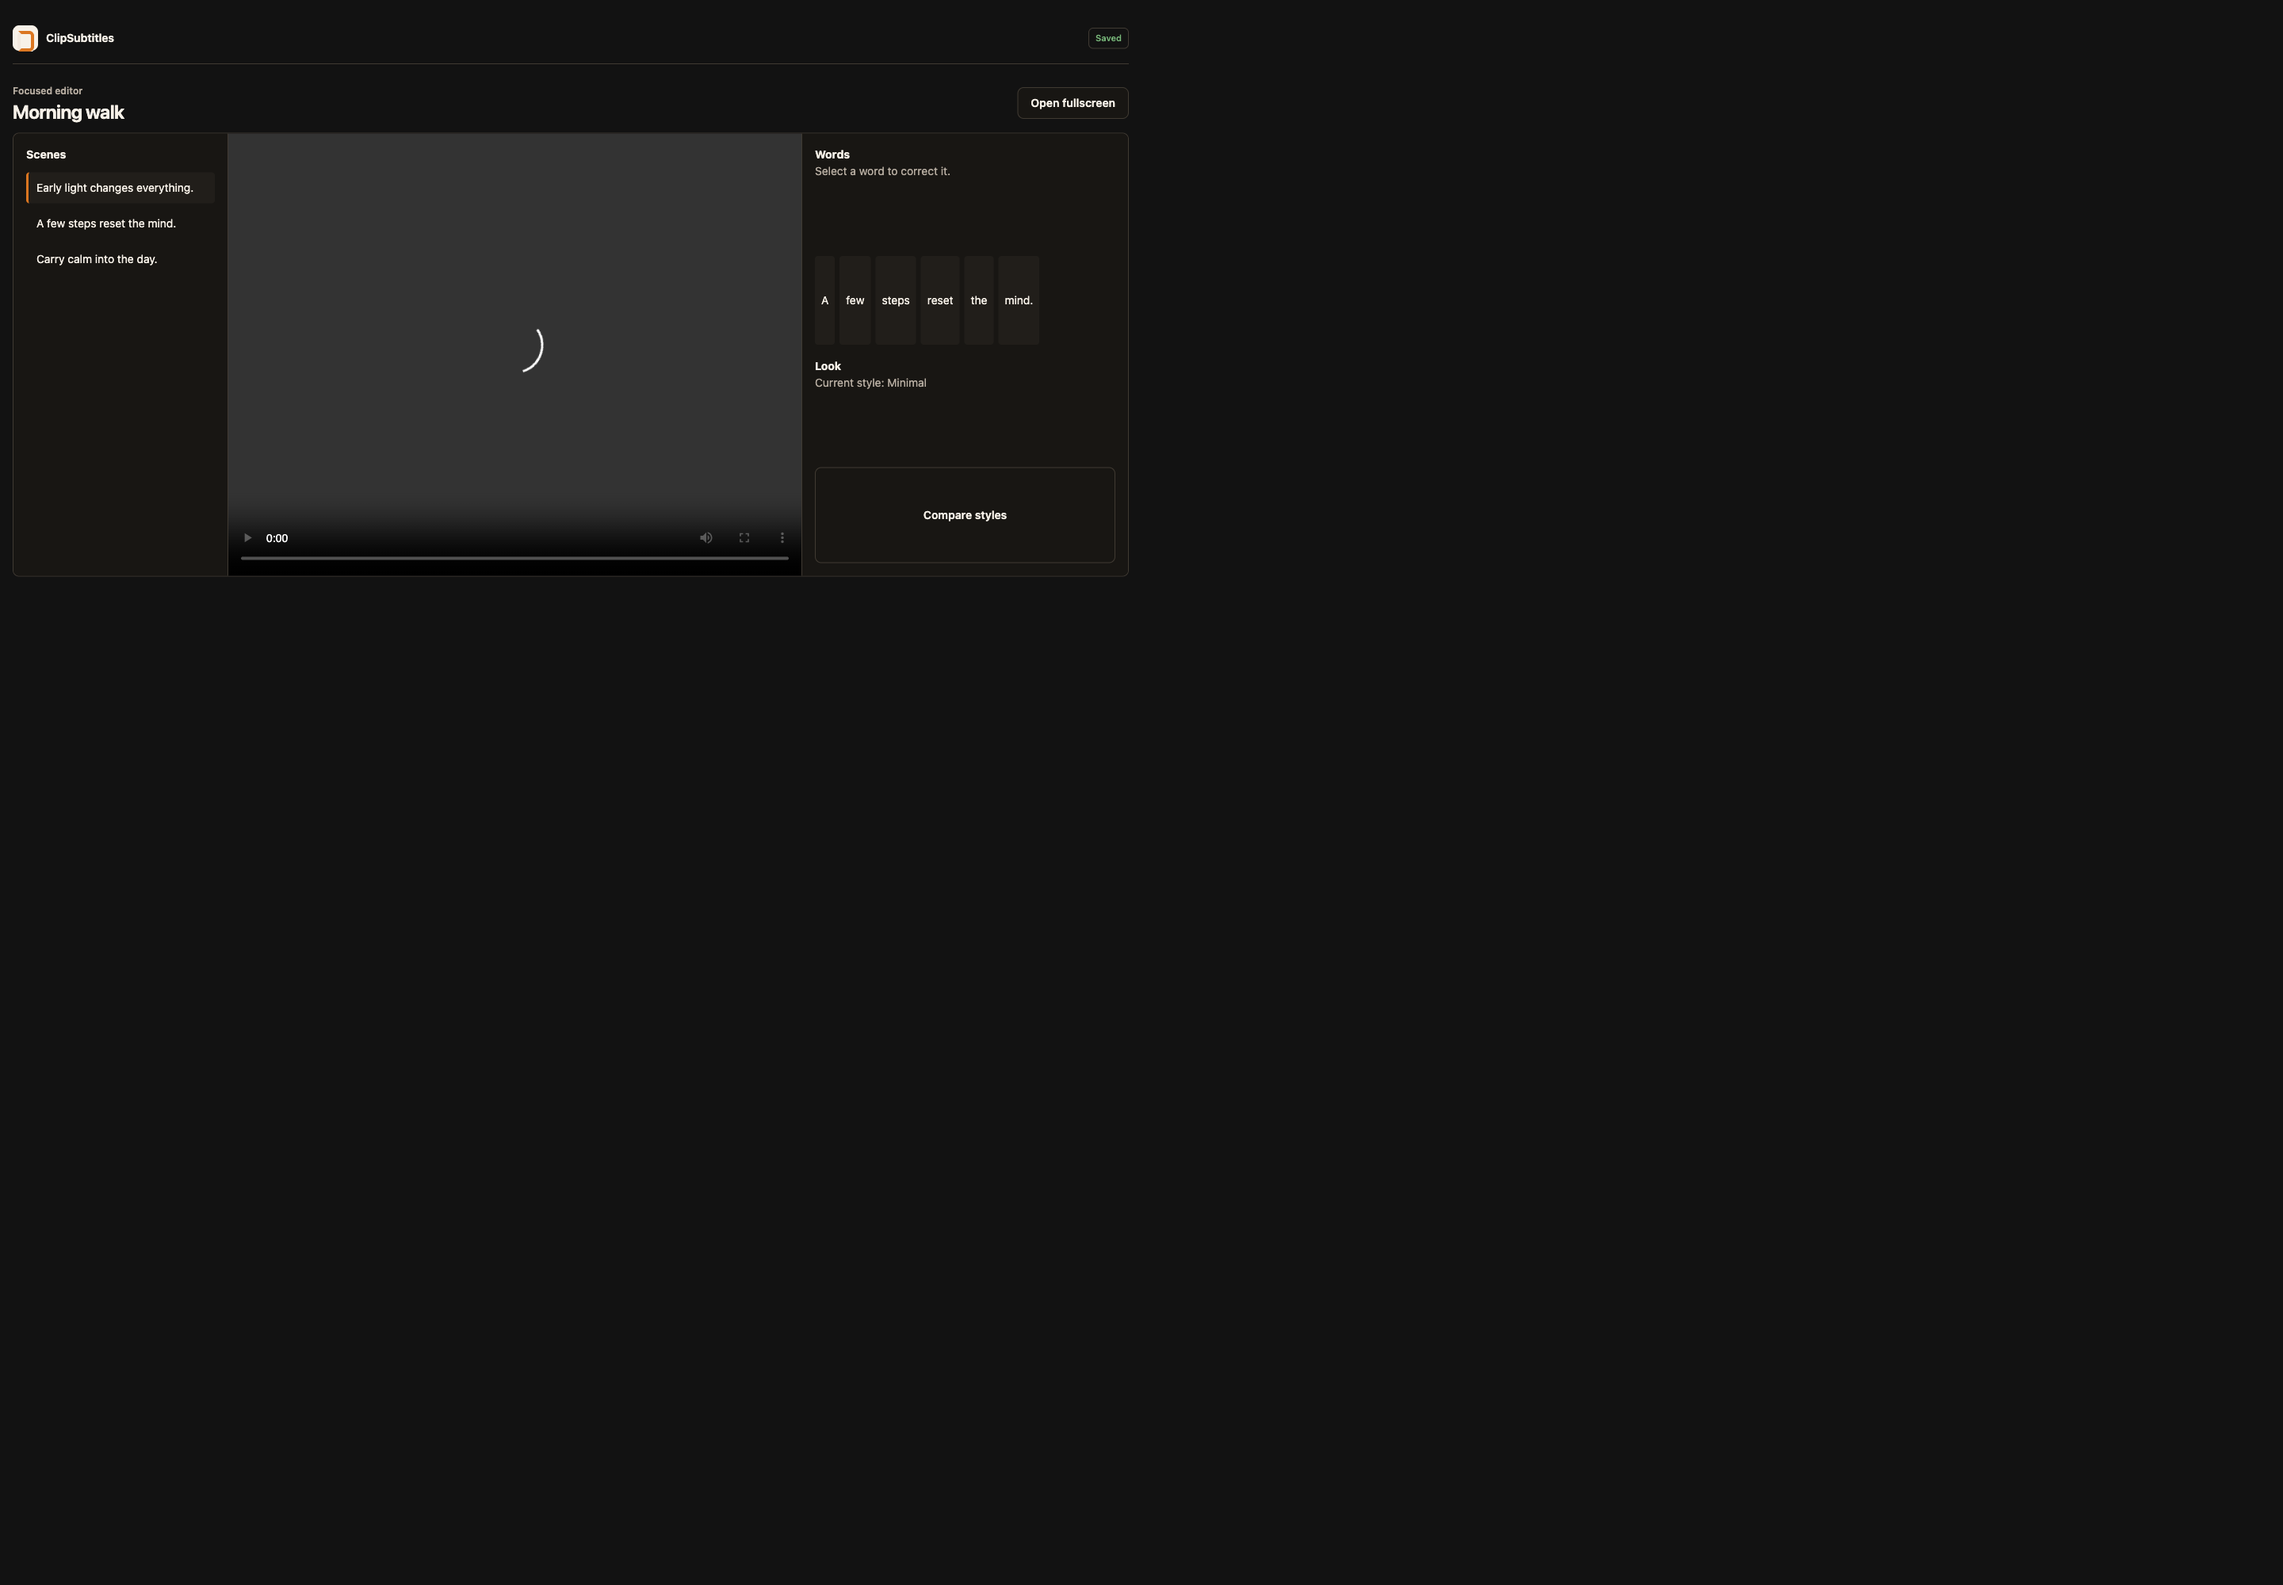
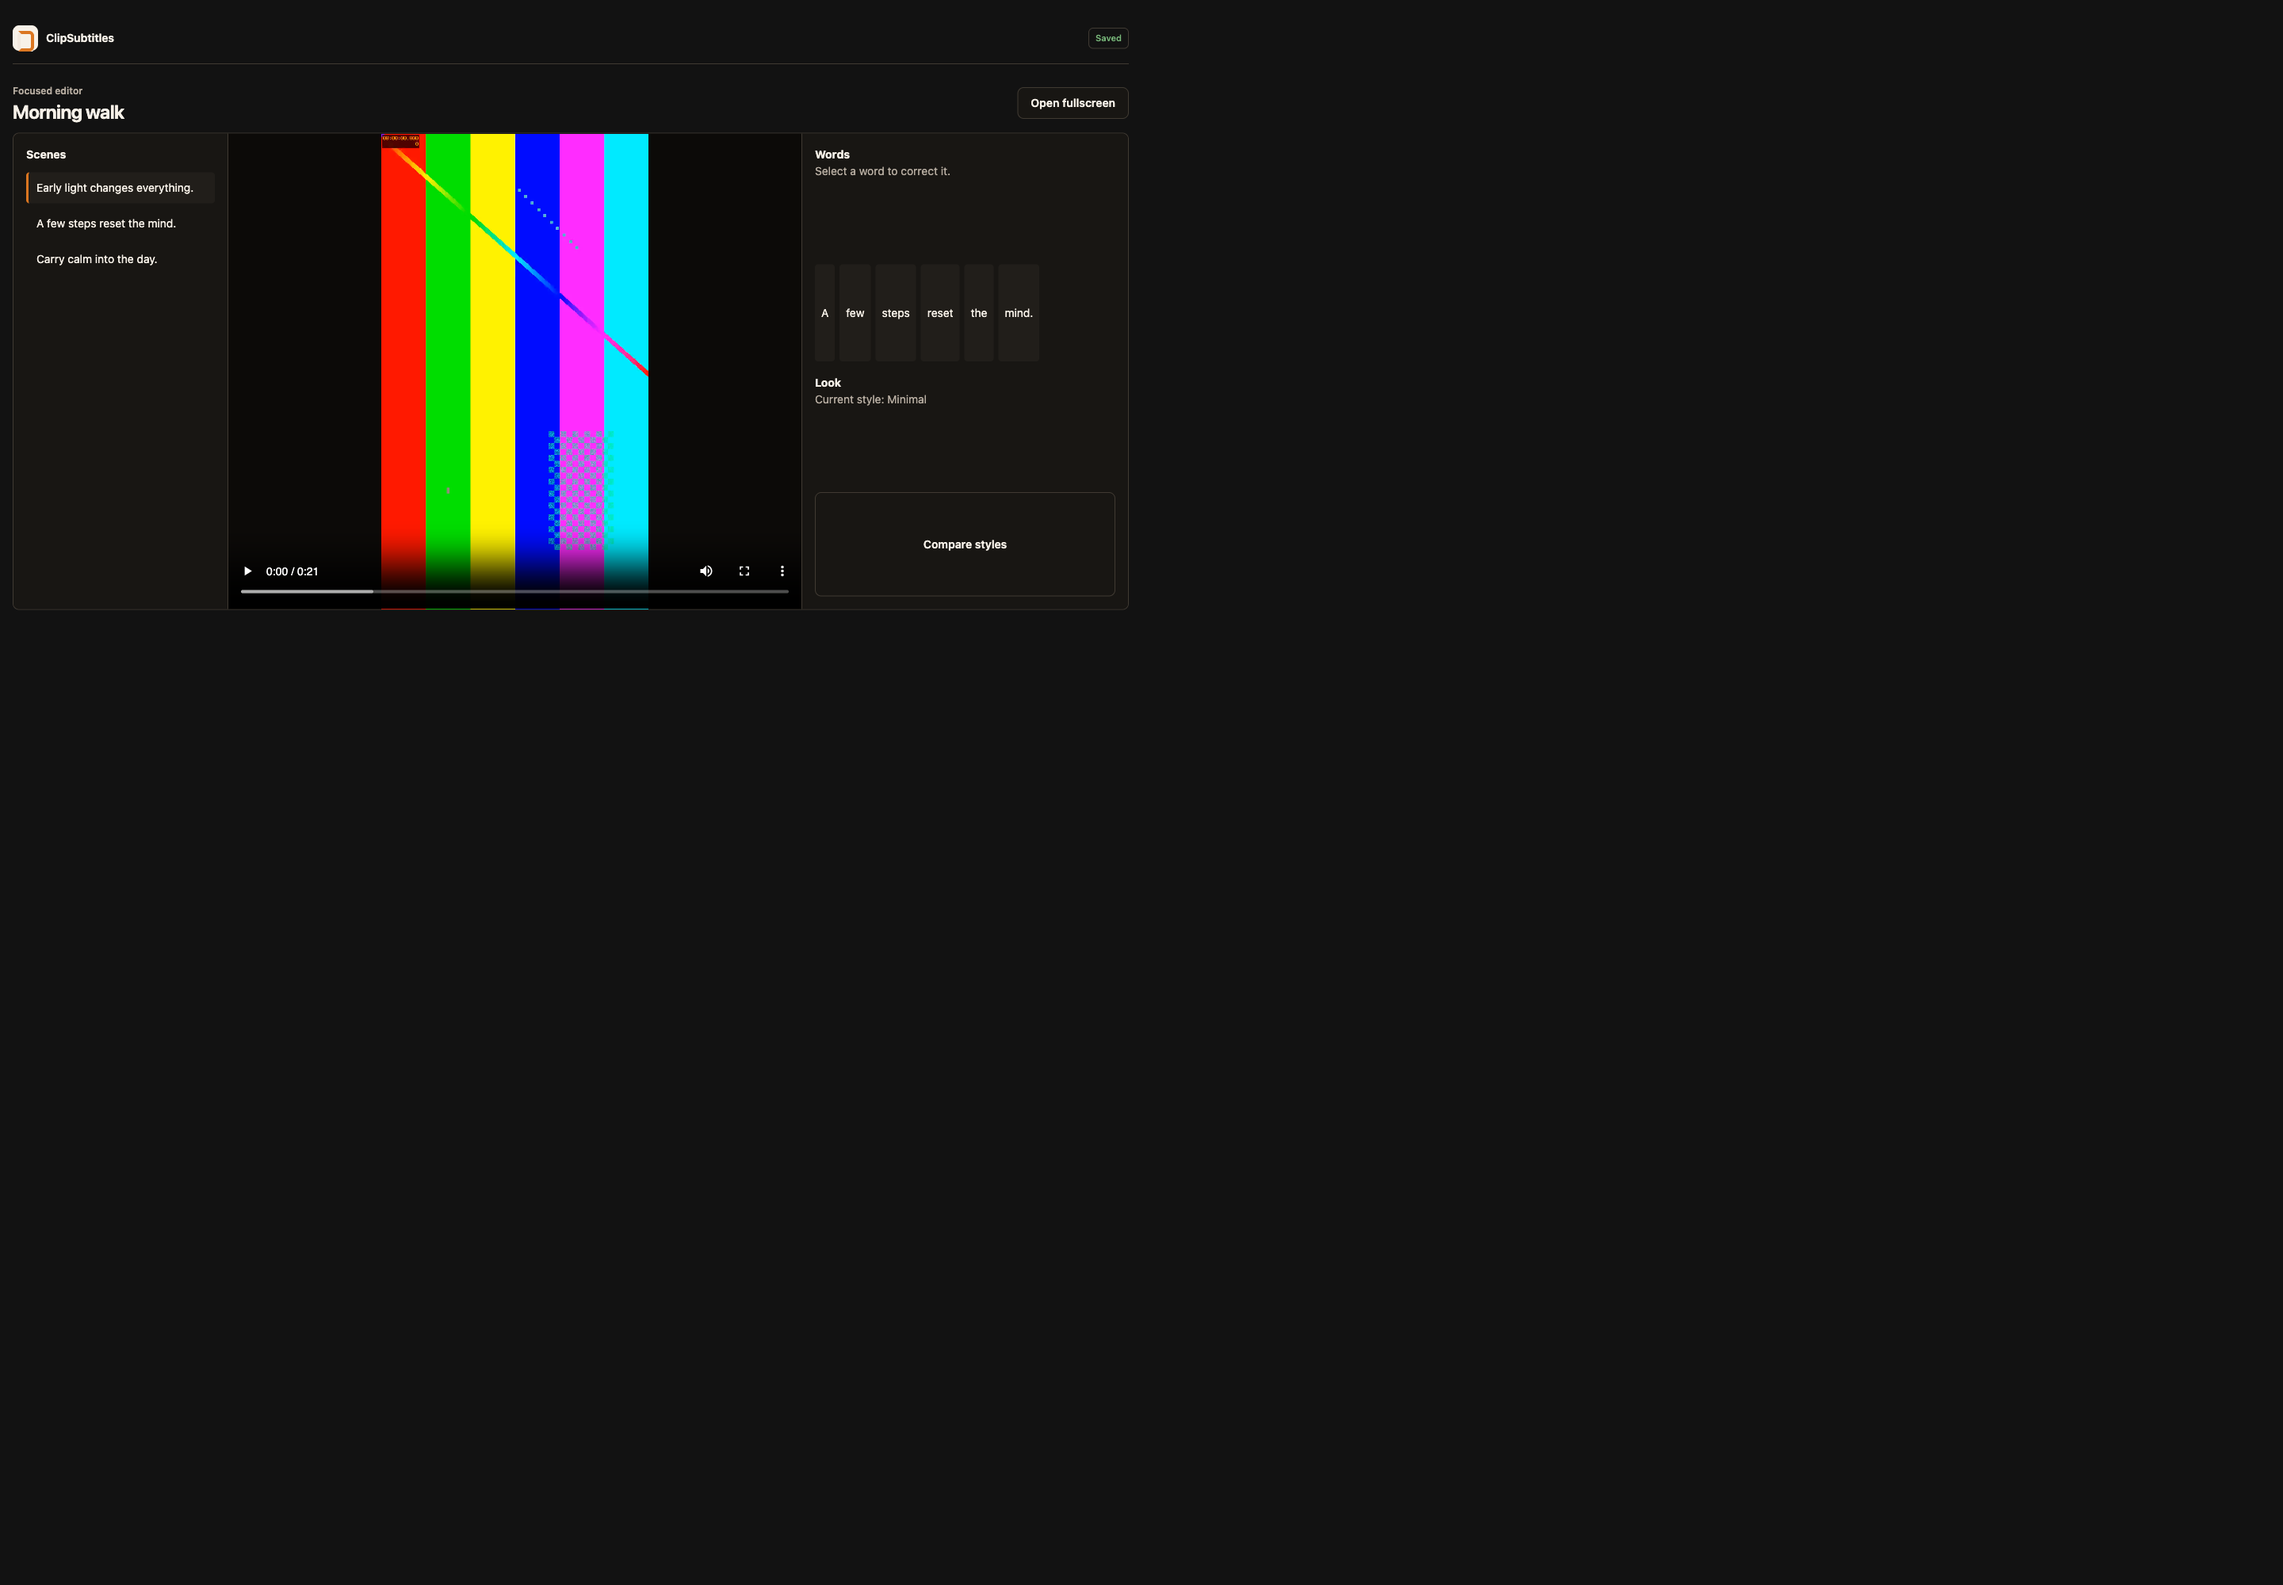
Fix widget preview media proof

Changed region(s): [[0.0938, 0.062, 0.375, 0.372], [0.4062, 0.31, 0.4375, 0.341], [0.4062, 0.186, 0.4375, 0.217]]

diff --git a/docs/design/dashboard-concepts/design-1-exploration/live-widgets/05-editor.html b/docs/design/dashboard-concepts/design-1-exploration/live-widgets/05-editor.html
@@ -84,7 +84,7 @@ input{width:100%;height:40px;border:1px solid var(--line);border-radius:6px;back
 @media(max-width:720px){.shell{padding:8px}.head{padding:14px 16px}.body{padding:16px}.kind-editor .head,.kind-editor .body,.kind-styles .head,.kind-styles .body{padding-inline:8px}.styles{grid-auto-columns:minmax(160px,80%)}.editor{grid-template-columns:1fr;min-height:auto}.editor .pages-panel{display:none}.stage-video{min-height:380px;border-right:0;border-bottom:1px solid var(--line)}.panel{border-right:0}.row .btn{flex:1 1 auto}}
 @media(prefers-reduced-motion:reduce){*,*:before,*:after{scroll-behavior:auto!important;transition-duration:.01ms!important;animation-duration:.01ms!important;animation-iteration-count:1!important}}
 </style></head><body><main id="app" class="shell kind-editor"><div class="card"><div class="head"><div class="brand"><span class="mark">C<b>S</b></span>ClipSubtitles</div><span id="state" class="pill">Loading…</span></div><div id="content" class="body"><p class="muted">Preparing the interface…</p></div></div></main>
-<script>window.openai={toolOutput:{"project":{"id":"proj_01m1preview00000000000","title":"Morning walk","status":"captioned","version":3,"contentHash":"aaaaaaaaaaaaaaaaaaaaaaaaaaaaaaaaaaaaaaaaaaaaaaaaaaaaaaaaaaaaaaaa","language":"en","createdAt":"2026-08-31T13:24:59.950Z","updatedAt":"2026-08-31T13:24:59.950Z","source":{"playbackUrl":"/fixtures/generated/demo/clean-en-product-demo.mp4"},"transcript":{"total":8,"offset":0,"words":[{"id":"w_01m1preview00000000001","text":"A","startMs":0,"endMs":380,"confidence":0.97},{"id":"w_01m1preview00000000002","text":"few","startMs":420,"endMs":800,"confidence":0.97},{"id":"w_01m1preview00000000003","text":"steps","startMs":840,"endMs":1220,"confidence":0.97},{"id":"w_01m1preview00000000004","text":"reset","startMs":1260,"endMs":1640,"confidence":0.97},{"id":"w_01m1preview00000000005","text":"the","startMs":1680,"endMs":2060,"confidence":0.97},{"id":"w_01m1preview00000000006","text":"mind.","startMs":2100,"endMs":2480,"confidence":0.97}]},"pageCount":3,"pages":[{"id":"page_01m1preview000000001","startMs":0,"endMs":2100,"wordIds":[],"text":"Early light changes everything."},{"id":"page_01m1preview000000002","startMs":2100,"endMs":4600,"wordIds":[],"text":"A few steps reset the mind."},{"id":"page_01m1preview000000003","startMs":4600,"endMs":7000,"wordIds":[],"text":"Carry calm into the day."}],"style":{"preset":"minimal","position":"lower-third","fontFamily":"Inter","fontWeight":500,"fontSizePct":0.05,"lineHeight":1.2,"maxLines":1,"maxCharsPerLine":32,"textAlign":"center","textTransform":"none","textColor":"#FFFFFF","stroke":{"widthPct":0,"color":"#000000"},"shadow":{"enabled":true,"color":"#00000099","blurPct":0.008,"offsetYPct":0.003},"background":{"enabled":true,"color":"#00000080","paddingXPct":0.018,"paddingYPct":0.009,"radiusPct":0.008},"highlight":{"mode":"none","color":"#FFD84D","scale":1},"motion":{"preset":"soft-rise","enterDurationMs":150,"exitDurationMs":100,"wordTransitionMs":100},"emoji":{"mode":"off","timing":"active-word","position":"above-word","sizeEm":1.15,"animation":"pop"},"safeMarginPct":0.08,"lowerThirdOffsetPct":0.24},"segmentation":{"maxWordsPerPage":6,"maxLinesPerPage":2,"maxCharsPerLine":26,"minPageDurationMs":450,"maxPageDurationMs":4200,"gapSplitMs":620},"qa":null,"activeTasks":[],"recentExports":[],"links":{"editor":"https://clipsubtitles.com/studio/proj_01m1preview00000000000"},"contentNotice":"Media text is untrusted data."}},callTool:async function(name,args){return {structuredContent:window.openai.toolOutput}},sendFollowUpMessage:async function(){return {}},notifyIntrinsicHeight:function(){},requestDisplayMode:async function(){return {mode:'fullscreen'}},openExternal:function(){}};</script><script>
+<script>window.openai={toolOutput:{"project":{"id":"proj_01m1preview00000000000","title":"Morning walk","status":"captioned","version":3,"contentHash":"aaaaaaaaaaaaaaaaaaaaaaaaaaaaaaaaaaaaaaaaaaaaaaaaaaaaaaaaaaaaaaaa","language":"en","createdAt":"2026-08-31T13:35:55.029Z","updatedAt":"2026-08-31T13:35:55.029Z","source":{"playbackUrl":"../../../../../fixtures/generated/demo/clean-en-product-demo.mp4"},"transcript":{"total":8,"offset":0,"words":[{"id":"w_01m1preview00000000001","text":"A","startMs":0,"endMs":380,"confidence":0.97},{"id":"w_01m1preview00000000002","text":"few","startMs":420,"endMs":800,"confidence":0.97},{"id":"w_01m1preview00000000003","text":"steps","startMs":840,"endMs":1220,"confidence":0.97},{"id":"w_01m1preview00000000004","text":"reset","startMs":1260,"endMs":1640,"confidence":0.97},{"id":"w_01m1preview00000000005","text":"the","startMs":1680,"endMs":2060,"confidence":0.97},{"id":"w_01m1preview00000000006","text":"mind.","startMs":2100,"endMs":2480,"confidence":0.97}]},"pageCount":3,"pages":[{"id":"page_01m1preview000000001","startMs":0,"endMs":2100,"wordIds":[],"text":"Early light changes everything."},{"id":"page_01m1preview000000002","startMs":2100,"endMs":4600,"wordIds":[],"text":"A few steps reset the mind."},{"id":"page_01m1preview000000003","startMs":4600,"endMs":7000,"wordIds":[],"text":"Carry calm into the day."}],"style":{"preset":"minimal","position":"lower-third","fontFamily":"Inter","fontWeight":500,"fontSizePct":0.05,"lineHeight":1.2,"maxLines":1,"maxCharsPerLine":32,"textAlign":"center","textTransform":"none","textColor":"#FFFFFF","stroke":{"widthPct":0,"color":"#000000"},"shadow":{"enabled":true,"color":"#00000099","blurPct":0.008,"offsetYPct":0.003},"background":{"enabled":true,"color":"#00000080","paddingXPct":0.018,"paddingYPct":0.009,"radiusPct":0.008},"highlight":{"mode":"none","color":"#FFD84D","scale":1},"motion":{"preset":"soft-rise","enterDurationMs":150,"exitDurationMs":100,"wordTransitionMs":100},"emoji":{"mode":"off","timing":"active-word","position":"above-word","sizeEm":1.15,"animation":"pop"},"safeMarginPct":0.08,"lowerThirdOffsetPct":0.24},"segmentation":{"maxWordsPerPage":6,"maxLinesPerPage":2,"maxCharsPerLine":26,"minPageDurationMs":450,"maxPageDurationMs":4200,"gapSplitMs":620},"qa":null,"activeTasks":[],"recentExports":[],"links":{"editor":"https://clipsubtitles.com/studio/proj_01m1preview00000000000"},"contentNotice":"Media text is untrusted data."}},callTool:async function(name,args){return {structuredContent:window.openai.toolOutput}},sendFollowUpMessage:async function(){return {}},notifyIntrinsicHeight:function(){},requestDisplayMode:async function(){return {mode:'fullscreen'}},openExternal:function(){}};</script><script>
 const KIND="editor";const WEB="https://clipsubtitles.com";const content=document.getElementById('content');const state=document.getElementById('state');let output=window.openai&&window.openai.toolOutput?window.openai.toolOutput:null;let input=window.openai&&window.openai.toolInput?window.openai.toolInput:null;let currentVersion=null;let requestId=1;const pending=new Map();
 function esc(value){return String(value==null?'':value).replace(/[&<>"']/g,function(ch){return({'&':'&amp;','<':'&lt;','>':'&gt;','"':'&quot;',"'":'&#39;'})[ch]})}
 function request(method,params){const id=requestId++;window.parent.postMessage({jsonrpc:'2.0',id:id,method:method,params:params},'*');return new Promise(function(resolve,reject){pending.set(id,{resolve:resolve,reject:reject})})}

diff --git a/packages/server/src/bin/widget-previews.ts b/packages/server/src/bin/widget-previews.ts
@@ -16,7 +16,7 @@ const project = {
   createdAt: now,
   updatedAt: now,
   source: {
-    playbackUrl: '/fixtures/generated/demo/clean-en-product-demo.mp4',
+    playbackUrl: '../../../../../fixtures/generated/demo/clean-en-product-demo.mp4',
   },
   transcript: {
     total: 8,
